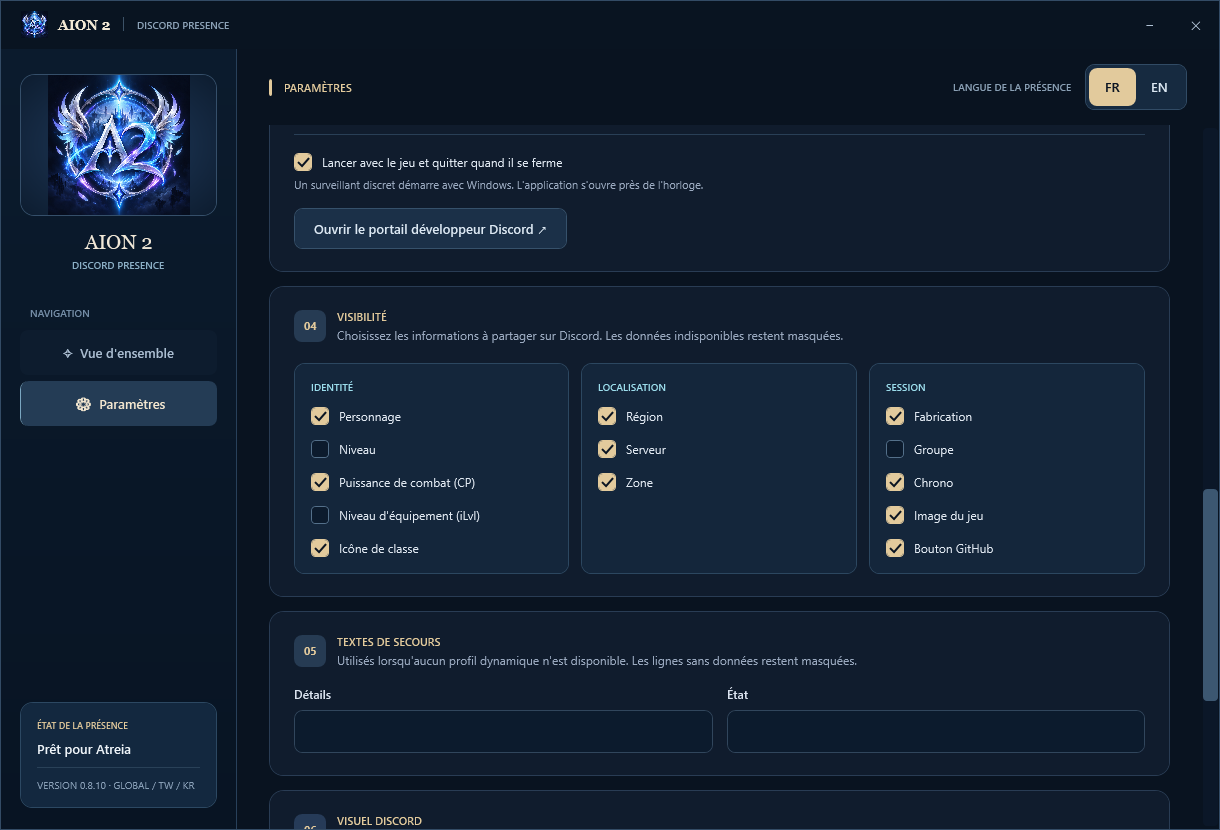
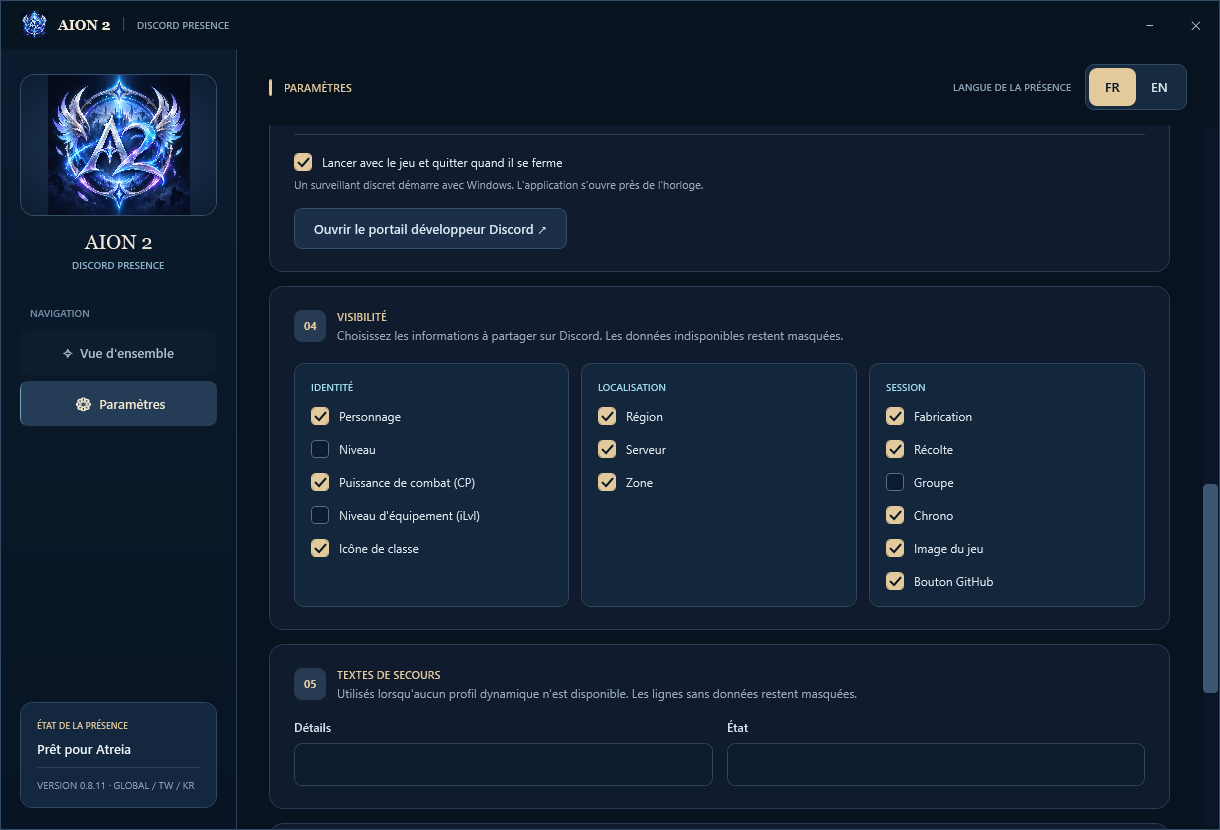
Add gathering artwork and document version 0.8.11

diff --git a/README.md b/README.md
@@ -20,7 +20,7 @@ A Discord developer account is not required. The shared Application ID and game/
 
 ## Download and first setup
 
-1. Download [AionPresence-Setup-0.8.10.exe](https://github.com/KaiiZzeR971/AION-2-Discord-Rich-Presence/releases/download/v0.8.10/AionPresence-Setup-0.8.10.exe) from this repository's Releases.
+1. Download [AionPresence-Setup-0.8.11.exe](https://github.com/KaiiZzeR971/AION-2-Discord-Rich-Presence/releases/download/v0.8.11/AionPresence-Setup-0.8.11.exe) from this repository's Releases.
 2. Run the installer. Installation is required. The app is installed for your Windows account and added to the Start menu.
 3. For Global automatic detection, complete the [Npcap setup](#npcap-setup-for-global) below before starting the game.
 4. Open **AION 2 Discord Presence** from the Start menu once. Select **EN** or **FR**, leave the client selection on **Auto**, and choose which fields to display in Settings.
@@ -29,7 +29,7 @@ A Discord developer account is not required. The shared Application ID and game/
 
 After setup, the app launches quietly near the Windows clock when the game starts. You can open its window from the notification icon. Preferences are saved automatically. Unavailable data and disabled fields are omitted from the presence.
 
-The installer is currently **unsigned**, so Windows may display a warning. A [SHA-256 checksum](https://github.com/KaiiZzeR971/AION-2-Discord-Rich-Presence/releases/download/v0.8.10/AionPresence-Setup-0.8.10.sha256) is provided alongside the installer.
+The installer is currently **unsigned**, so Windows may display a warning. A [SHA-256 checksum](https://github.com/KaiiZzeR971/AION-2-Discord-Rich-Presence/releases/download/v0.8.11/AionPresence-Setup-0.8.11.sha256) is provided alongside the installer.
 
 ## Npcap setup for Global
 
@@ -69,11 +69,14 @@ You can install the presence app on another local disk, including folders with s
 - **Party display:** Party or Lobby and the native member counter occupy their own presence line. Character and location information share the preceding line while grouped. The timer remains separate.
 - **Region and server:** compact format such as `EU · Israphel - Safe Haven`. The zone shows only its name and uses a hyphen separator. It appears below character information outside a group, or alongside character information when the group occupies its own line. Empty or hidden fields leave no separator behind.
 - **Crafting:** while a recognized recipe is being crafted, the second line shows **Crafting** and the crafting icon replaces the class icon. The location and class return after the last result. No item count is shared. Enabled by default and configurable in Settings; crafting takes priority over the location and party line.
+- **Gathering:** after each recognized gathering result, the second line shows **Gathering · zone** and the gathering icon replaces the class icon. Region and server are temporarily hidden. The status remains for 30 seconds after the last action; another action refreshes it. Resource names and quantities are never shared. Enabled by default and configurable in Settings. A scene or character change clears it.
 - **Session timer:** based on the game process start time. Reopening the presence app while the same game session is running preserves the timer.
 
 Character identity, class, level, item level, CP, server and the last detected map are restored when the app restarts during the same game session. The cached server remains available if the online search cannot be reached. A new game session does not reuse an old profile. On a fresh late start, the game presence works while automatic character details are pending; previously sent packets cannot be recovered.
 
 ### Current limitations
+
+- Gathering has been validated with Diamond and Odyle on Global EU. Detection starts with the first recognized result, including unsuccessful attempts. Other gathering types and TW/KR remain unverified.
 
 - Crafting has been validated with Sapphire Ring and Sapphire Decoration on Global EU, including a batch stopped after a completed quality-upgraded item. Other professions and TW/KR remain unverified. If an individual craft is interrupted without a recognized result, the activity expires within one minute.
 - Location detection follows the game's scene messages. The displayed place is the **last detected loaded destination**. Continuous updates while walking between areas are not yet verified.
@@ -83,7 +86,7 @@ Character identity, class, level, item level, CP, server and the last detected m
 
 ## Features and settings
 
-Default visibility: character, CP, class icon, region, server, zone, crafting, timer, game artwork and GitHub button enabled. Character level, item level and party disabled. Each option can be changed in Settings; updates preserve saved preferences.
+Default visibility: character, CP, class icon, region, server, zone, crafting, gathering, timer, game artwork and GitHub button enabled. Character level, item level and party disabled. Each option can be changed in Settings; updates preserve saved preferences.
 
 - French or English interface and presence, including localized Global destination names.
 - Visibility controls for character, level, gear score, class icon, region, server, location, party, timer, artwork, and download button.
@@ -154,7 +157,7 @@ Aucun compte développeur Discord n'est nécessaire. L'Application ID partagé e
 
 ### Télécharger et configurer
 
-1. Téléchargez [AionPresence-Setup-0.8.10.exe](https://github.com/KaiiZzeR971/AION-2-Discord-Rich-Presence/releases/download/v0.8.10/AionPresence-Setup-0.8.10.exe) depuis les Releases de ce dépôt.
+1. Téléchargez [AionPresence-Setup-0.8.11.exe](https://github.com/KaiiZzeR971/AION-2-Discord-Rich-Presence/releases/download/v0.8.11/AionPresence-Setup-0.8.11.exe) depuis les Releases de ce dépôt.
 2. Lancez l'installateur. L'installation est obligatoire. L'application est installée pour votre compte Windows et ajoutée au menu Démarrer.
 3. Pour la détection automatique sur Global, effectuez la [configuration Npcap](#configuration-de-npcap-pour-global) ci-dessous avant de lancer le jeu.
 4. Ouvrez une première fois **AION 2 Discord Presence** depuis le menu Démarrer. Choisissez **FR** ou **EN**, laissez la version du client sur **Auto** et choisissez les champs à afficher dans les paramètres.
@@ -163,7 +166,7 @@ Aucun compte développeur Discord n'est nécessaire. L'Application ID partagé e
 
 Après cette configuration, l'application démarre discrètement près de l'horloge Windows avec le jeu. Son icône de notification permet de rouvrir la fenêtre. Les préférences sont sauvegardées automatiquement. Les champs indisponibles ou désactivés sont omis de la présence.
 
-L'installateur est actuellement **non signé** ; Windows peut afficher un avertissement. Une [somme SHA-256](https://github.com/KaiiZzeR971/AION-2-Discord-Rich-Presence/releases/download/v0.8.10/AionPresence-Setup-0.8.10.sha256) accompagne l'installateur.
+L'installateur est actuellement **non signé** ; Windows peut afficher un avertissement. Une [somme SHA-256](https://github.com/KaiiZzeR971/AION-2-Discord-Rich-Presence/releases/download/v0.8.11/AionPresence-Setup-0.8.11.sha256) accompagne l'installateur.
 
 ### Configuration de Npcap pour Global
 
@@ -203,11 +206,14 @@ Vous pouvez installer l'application de présence sur un autre disque local, y co
 - **Affichage du groupe :** Groupe ou Salon et le compteur natif occupent leur propre ligne dans la présence. Les informations du personnage et du lieu sont réunies sur la ligne précédente lorsque vous êtes en groupe. Le chronomètre reste séparé.
 - **Région et serveur :** format compact comme `EU · Israphel - Safe Haven`, avec uniquement le nom de la zone et un trait d'union pour la séparer du serveur, sous les informations du personnage hors groupe, ou avec le personnage lorsque le groupe occupe sa propre ligne. Les champs vides ou masqués ne laissent aucun séparateur.
 - **Fabrication :** pendant une recette reconnue, la deuxième ligne affiche **Fabrication en cours** et son icône remplace celle de la classe. Le lieu et la classe reviennent après le dernier résultat. Aucun nombre d’objets n’est partagé. Activée par défaut et configurable dans les paramètres ; la fabrication est prioritaire sur la ligne du lieu et du groupe.
+- **Récolte :** après chaque résultat de récolte reconnu, la deuxième ligne affiche **Récolte · zone** et l’icône de récolte remplace celle de la classe. Région et serveur sont temporairement masqués. Le statut reste 30 secondes après la dernière action ; une nouvelle action renouvelle ce délai. Aucun nom de ressource ni quantité n’est partagé. Activée par défaut et configurable dans les paramètres. Un changement de scène ou de personnage efface ce statut.
 - **Chrono de session :** fondé sur l'heure de lancement du processus du jeu. Rouvrir l'application pendant la même session conserve le chrono.
 
 L'identité du personnage, la classe, le niveau, l'iLvl, le CP, le serveur et la dernière carte détectée sont restaurés si l'application redémarre pendant la même session de jeu. Le serveur sauvegardé reste disponible si la recherche en ligne échoue. Une nouvelle session ne reprend pas l'ancien profil. Lors d'un premier lancement en cours de partie, la présence du jeu fonctionne en attendant les détails automatiques du personnage ; les messages déjà transmis ne peuvent pas être récupérés.
 
 ### Limites actuelles
+
+- La récolte a été validée avec le diamant et l’odyle sur Global EU. La détection commence au premier résultat reconnu, y compris une tentative infructueuse. Les autres types de récolte et les clients TW/KR restent à valider.
 
 - La fabrication a été validée avec Sapphire Ring et Sapphire Decoration sur Global EU, y compris une série arrêtée après un objet terminé de qualité supérieure. Les autres métiers et les clients TW/KR restent à valider. Si une fabrication individuelle est interrompue sans résultat reconnu, l’activité expire en une minute au maximum.
 - La détection du lieu suit les messages de chargement du jeu. Le lieu affiché est la **dernière destination chargée détectée**. Les changements continus à pied entre les lieux ne sont pas encore validés.
@@ -217,10 +223,10 @@ L'identité du personnage, la classe, le niveau, l'iLvl, le CP, le serveur et la
 
 ### Fonctions et paramètres
 
-Affichage initial : personnage, CP, icône de classe, région, serveur, zone, fabrication, chrono, image du jeu et bouton GitHub activés. Niveau du personnage, iLvl et groupe désactivés. Chaque option peut être modifiée dans les paramètres ; les mises à jour conservent les préférences enregistrées.
+Affichage initial : personnage, CP, icône de classe, région, serveur, zone, fabrication, récolte, chrono, image du jeu et bouton GitHub activés. Niveau du personnage, iLvl et groupe désactivés. Chaque option peut être modifiée dans les paramètres ; les mises à jour conservent les préférences enregistrées.
 
 - Interface et présence en français ou en anglais, avec traduction des destinations Global.
-- Choix des champs affichés : personnage, niveau, score d'équipement, icône de classe, région, serveur, lieu, groupe, fabrication, chrono, image et bouton de téléchargement.
+- Choix des champs affichés : personnage, niveau, score d'équipement, icône de classe, région, serveur, lieu, groupe, fabrication, récolte, chrono, image et bouton de téléchargement.
 - Image du jeu et icônes des classes, dont Brawler.
 - Lancement automatique dans la zone de notification avec `Aion2.exe` et fermeture quand le jeu se ferme.
 - Préférences sauvegardées et bouton de fermeture configurable : demander, réduire dans la zone de notification ou quitter.
